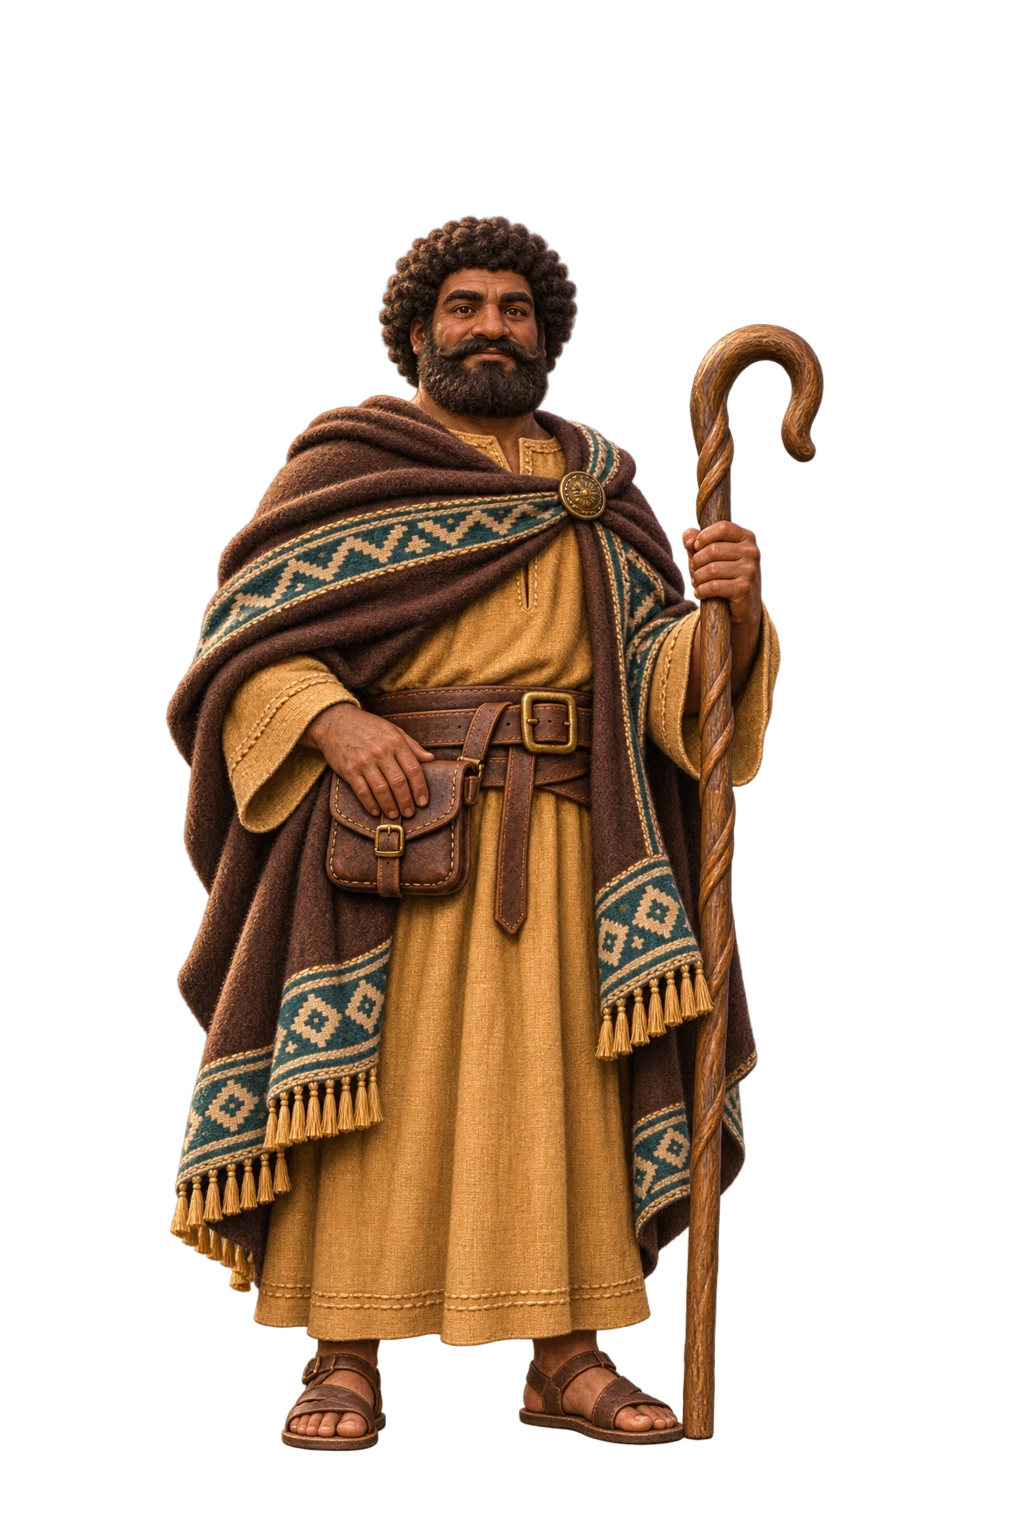
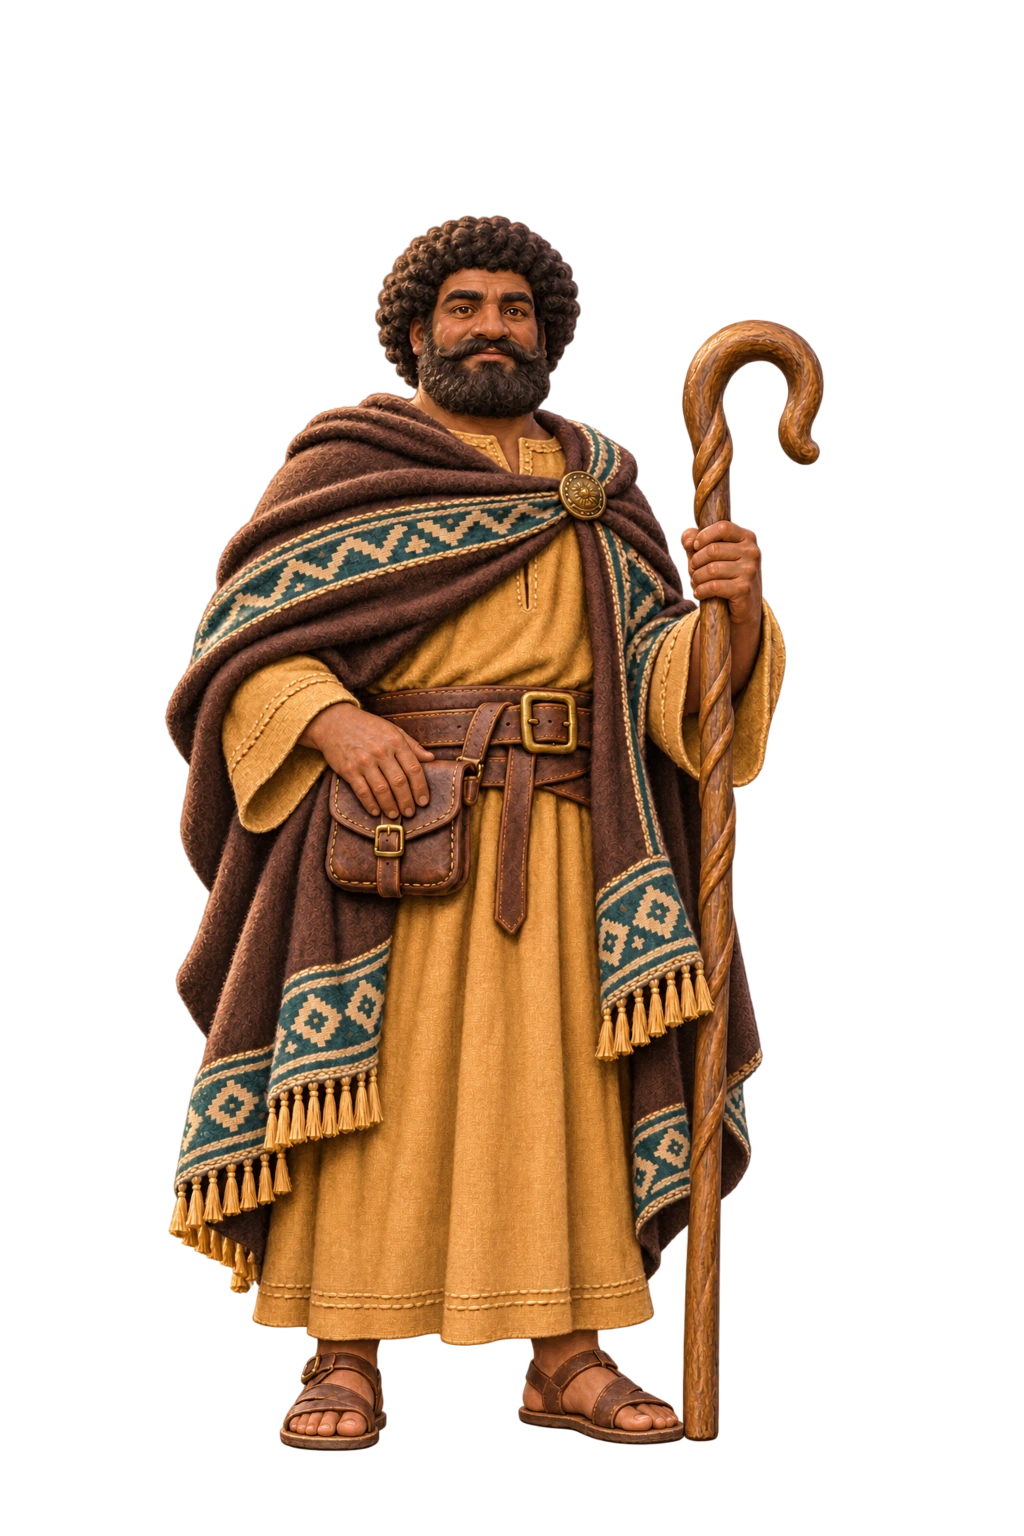
Aplica S03_v2: tons de pele do Labão (estilos 1 e 2)
Claude-Session: https://claude.ai/code/session_01ShwRuBXYkz4meuq65H5Vn5

Changed region(s): [[0.1562, 0.125, 0.8125, 0.9375], [0.1562, 0.625, 0.1875, 0.6562]]

diff --git a/docs/skins/entregas/S03/PROMPTS.md b/docs/skins/entregas/S03/PROMPTS.md
@@ -303,3 +303,39 @@ EXACT CATALOG STYLE 3: VERY DEEP DARK BROWN, distinctly darker than skin5 skin (
 CHECK entire body1024x1536, true transparent alpha, no haze/rectangle, clean margins, unclipped feet and props, normal two hands, weight-supported objects. No invented biblical lettering, divine person or claim of exact historical likeness.
 Extra framing check: BOTH whole sandal soles must remain inside the canvas with at least40px clear transparent bottom margin; leave40px above the complete hair. Never crop toes, crown or a prop.
 ```
+
+# Revisão de tons · S03_v2
+
+Três edições ImageGen integrado para duas pinturas finais; a primeira tentativa do estilo2 ficou sutil e foi refinada. Image1 é alvo; outras imagens são somente referências de cor.
+
+## raro_labao · estilo1 · skin-4 · pintura final selecionada
+
+```text
+Use case: identity-preserve / precise-object-edit. EDIT TARGET Image1 ONLY is the exact full-body LABAN (raro_labao) STYLE1 painting. Change ONLY exposed SKIN COMPLEXION of this SAME character. Image2 is the APPROVED LIGHT TONE2 COLOR reference (Eliezer style1); DO NOT borrow its face, age, bald scalp, hair, pose, clothes, bag or props. Image3 is LABAN STYLE3 DEEP TONE6 COLOR reference only, which stays unchanged. Image4 is the technical palette: swatches LEFT to RIGHT tone1 #F5D6BF,2 #E8BC95,3 #CF9A6C,4 #AC764B,5 #865233,6 #5A3721. Do not paint a palette.
+
+MANDATORY TONE4: a clearly MEDIUM BROWN base pigment #AC764B, visible INTERMEDIATE between LIGHT tone2 Image2 and the DEEP DARK tone6 Image3. Repaint the entire exposed skin to this middle brown, moderately lighter than the current compressed dark look. Natural neutral warm brown shading, no orange color cast, no deep espresso substitute. When the three styles are compared this one must be a clear middle step, not nearly as pale as2 or as deep as3.
+
+Repaint ALL exposed skin consistently: forehead, ears, eyelids, cheeks, nose, neck, both forearms, BOTH hands/fingers, lower legs and feet. Preserve his exact BROAD TRAPEZOID face, short forehead, long broad low-bridge nose, large wide-set eyes, thick curved brows, long curved moustache and broad-bottom beard; same facial bone anatomy, gaze and apparent age. NO change to scalp hairstyle: same DARK BROWN voluminous rounded afro. Same exact beard/moustache COLOR and outline. No bleaching hair while lightening skin.
+
+STRICT INVARIANTS: same full-body pose, anatomy, TWO connected hands and natural staff grip, shepherd crook and pouch, ochre tunic, walnut mantle, teal/cream geometric trim, all folds/colors/cloth detail, sandals and complete framing. Keep fine PAINTED2.5D materials and warm upper-left light, but no orange skin grade. Do not sharpen into faceted polygons, do not add new textures or jewelry. RGBA1024x1536 with every foot/prop inside margins. TRUE TRANSPARENT alpha-zero background: no haze, bloom, ground shadow rectangle, text, UI or swatches. ONLY skin pigment changes; no new face, costume, hairstyle or accessory.
+```
+
+## raro_labao · estilo2 · skin-2 · primeira tentativa de contraste, não selecionada
+
+```text
+Use case: identity-preserve / precise-object-edit. EDIT TARGET Image1 ONLY is the exact full-body LABAN (raro_labao) STYLE2 painting. Change ONLY exposed SKIN COMPLEXION of this SAME character. Image2 is the APPROVED LIGHT TONE2 COLOR reference (Eliezer style1); DO NOT borrow its face, age, bald scalp, hair, pose, clothes, bag or props. Image3 is LABAN STYLE3 DEEP TONE6 COLOR reference only, which stays unchanged. Image4 is the technical palette: swatches LEFT to RIGHT tone1 #F5D6BF,2 #E8BC95,3 #CF9A6C,4 #AC764B,5 #865233,6 #5A3721. Do not paint a palette.
+
+MANDATORY TONE2: make a SUBSTANTIAL VISIBLE correction to genuinely LIGHT WARM PEACH-BEIGE skin, base pigment #E8BC95, like the LIGHT complexion family of Image2 (approved Eliezer style1). Image1 currently looks medium tan and was rejected for that. Make face AND hands/feet clearly lighter, with pale peach highlights and restrained soft rose-beige shadows, not caramel/orange/bronze suntan. This is LIGHT tone2, not medium tone3/4 and not darker than Image2. Preserve natural painted volume, not chalk-white flat paint.
+
+Repaint ALL exposed skin consistently: forehead, ears, eyelids, cheeks, nose, neck, both forearms, BOTH hands/fingers, lower legs and feet. Preserve his exact BROAD TRAPEZOID face, short forehead, long broad low-bridge nose, large wide-set eyes, thick curved brows, long curved moustache and broad-bottom beard; same facial bone anatomy, gaze and apparent age. NO change to scalp hairstyle: same BLACK LONG hair. Same exact beard/moustache COLOR and outline. No bleaching hair while lightening skin.
+
+STRICT INVARIANTS: same full-body pose, anatomy, TWO connected hands and natural staff grip, shepherd crook and pouch, ochre tunic, walnut mantle, teal/cream geometric trim, all folds/colors/cloth detail, sandals and complete framing. Keep fine PAINTED2.5D materials and warm upper-left light, but no orange skin grade. Do not sharpen into faceted polygons, do not add new textures or jewelry. RGBA1024x1536 with every foot/prop inside margins. TRUE TRANSPARENT alpha-zero background: no haze, bloom, ground shadow rectangle, text, UI or swatches. ONLY skin pigment changes; no new face, costume, hairstyle or accessory.
+```
+
+## raro_labao · estilo2 · skin-2 · pintura final selecionada
+
+```text
+Use case: precise-object-edit / identity-preserve. Image1 is the EXACT Laban STYLE2 painting to correct. Make his exposed skin VISIBLY and SUBSTANTIALLY LIGHTER to LIGHT IVORY PEACH-BEIGE catalog TONE2 #E8BC95 (RGB232,188,149 base pigment). The prior correction was far too subtle: the face remains sun-tanned orange-brown. DO NOT preserve that orange facial pigment. This needs a distinct LIGHT complexion, with soft pale peach/rose-beige highlights and subtle beige shadows rather than bronze/brown shadows. Image2 is APPROVED TONE2 COLOR ONLY, the light complexion of the representative Zelophehad daughter style1; match that LIGHT complexion family. Do NOT copy her female face, hair, clothing or pose. Image3 is six technical swatches LEFT to RIGHT tones1..6; use the SECOND swatch, not the third/fourth. Do not paint palette/swatches.
+Repaint ALL exposed skin consistently, particularly the FOREHEAD, CHEEKS, NOSE, EYELIDS, EARS and NECK, plus BOTH hands, fingers, legs and feet. His face must be as light as the pale hands, not a brown face over pale hands. Retain organic painterly shading, do not make a flat white mask. Garment lighting can remain warm; neutralize orange cast ONLY on skin.
+Keep EXACT same masculine unique BROAD TRAPEZOID face, wide-set brown eyes, big broad nose, brows, short forehead, long curved BLACK moustache and dense BLACK beard outline/color, same BLACK LONG hair, age and expression. NO changing facial geometry, eyes, sex, hairstyle, hair/beard color, pose or anatomy. All ochre/walnut/teal/cream garments, folds, materials, crook, pouch, hand grips, sandals, jewelry and entire framing remain unchanged. Premium PAINTED2.5D, no new facets, sharpening or costume textures. ONE entire1024x1536 figure. TRUE TRANSPARENT alpha0 background, no haze, glow, floor shadow, rectangle, UI or text. ONLY exposed skin pigment changes; make this a clearly LIGHT style2 compared with the medium style1 and deep style3.
+```

diff --git a/docs/skins/entregas/S03/LEIA-ME.md b/docs/skins/entregas/S03/LEIA-ME.md
@@ -1,4 +1,4 @@
-# Jornada Bíblica · S03
+# Jornada Bíblica · S03_v2
 
 6 skins completas × 3 estilos = **18 pinturas** no 2.5D pintado aprovado. Fonte: branch claude/kind-bell-fuk4e4, commit f2bbdd0. Briefing: LOTES.md; contrato: TEMPORADA-1-EXODO.md §2.
 
@@ -38,3 +38,15 @@ Cada personagem tem somente a apresentação do próprio sexo, na raiz do seu ID
 Conferir ZIP e .zip.sha256 de cada lote, somas, arte, diferenças de pele, rostos, mãos e objetos. Aplicar pelo fluxo oficial scripts/skins-add-lot.mjs S03 e scripts/gen-skin-art.mjs. Rodar unitários, SQL, skins-audit, marco1/journey/lobby/fixes e Supabase local oficial limpo. Atualizar plano/STATUS/LOTES/PARA-O-CODEX e publicar no mesmo branch com commit e resultado completo.
 
 O Codex alterou somente arte e arquivos de entrega locais, sem migração ou banco. A integração oficial fica com o Claude. O usuário autorizou envio direto, aguardar revisão, corrigir apontamentos e avançar automaticamente após o fechamento do ciclo. Até dois lotes nesta entrega: S03/S04.
+
+## Correção de tons · S03_v2
+
+Revisão solicitada no §25 de PARA-O-CODEX, base integrada802b37d. Não é lote novo e não requer migração. Corrigidas somente duas pinturas de raro_labao:
+
+- estilo2: tom2 claro(#E8BC95), na família clara de Eliézer estilo1.
+- estilo1: tom4 médio(#AC764B), visivelmente intermediário entre o2claro e o3escuro.
+- estilo3(tom6): preservado byte a byte.
+
+Rosto, bigode/barba, penteados/cores, idade aparente, traje, cajado/bolsa, mãos, IDs, estilos e âncoras preservados. Os outros43assets, incluindo as seis fichas, são byte a byte idênticos ao S03_final. Mudaram4 WebPs de corpo(2bases+2ampliações) e1 ícone(Labão,estilo1). As capturas de Labão e as duas galerias foram atualizadas. Comparacao_Tons_S03_v2.png mostra antes/depois; VALIDACAO.json traz hashes antigos/novos dos5assets alterados.
+
+Enviar este S03_v2 completo e seu .zip.sha256. Conferir, aprovar os dois tons e aplicar apenas os5assets alterados. Preservar banco, catálogo, fichas e regras. Confirmar também o fechamento do ciclo oficial de S03/S04 e a auditoria com109skins antes de seguir automaticamente para S05/S06. S04 permanece aprovado, sem reenvio.

diff --git a/docs/skins/PARA-O-CODEX.md b/docs/skins/PARA-O-CODEX.md
@@ -504,3 +504,15 @@ Mantenha o rosto (`identidadeFacial`), o cabelo, o traje, os objetos, os IDs e a
 - **estilo-3** (tom 6): está correto e não muda.
 
 Mantenha rosto, bigode, barba, cabelo, traje, cajado, IDs e âncoras. Mande o pacote S03 completo com os SHA-256 atualizados, sem migração.
+
+### 25.1 S03_v2: tons do Labão corrigidos e aprovados (20/11/2026)
+
+**Conferência**
+- O ZIP de 19.910.116 bytes confere com o `.zip.sha256` (`a0cf8112…`) e as 69 somas conferem.
+- Mudaram só os 5 arquivos anunciados: estilos 1 e 2 (base e @2x) e o ícone. Os outros 43 são idênticos, incluindo as fichas.
+
+**Tons medidos na bochecha:** estilo-2 (tom 2) em 185, estilo-1 (tom 4) em 129 e estilo-3 (tom 6) em 69. A ordem clara, média e escura agora aparece de fato. Rosto, barba, cabelo, traje e cajado foram preservados.
+
+**Integração:** só os arquivos alterados, sem migração nem mudança de catálogo, fichas ou regras.
+
+**S03/S04 encerrados. Próximo: S05 e S06.**
